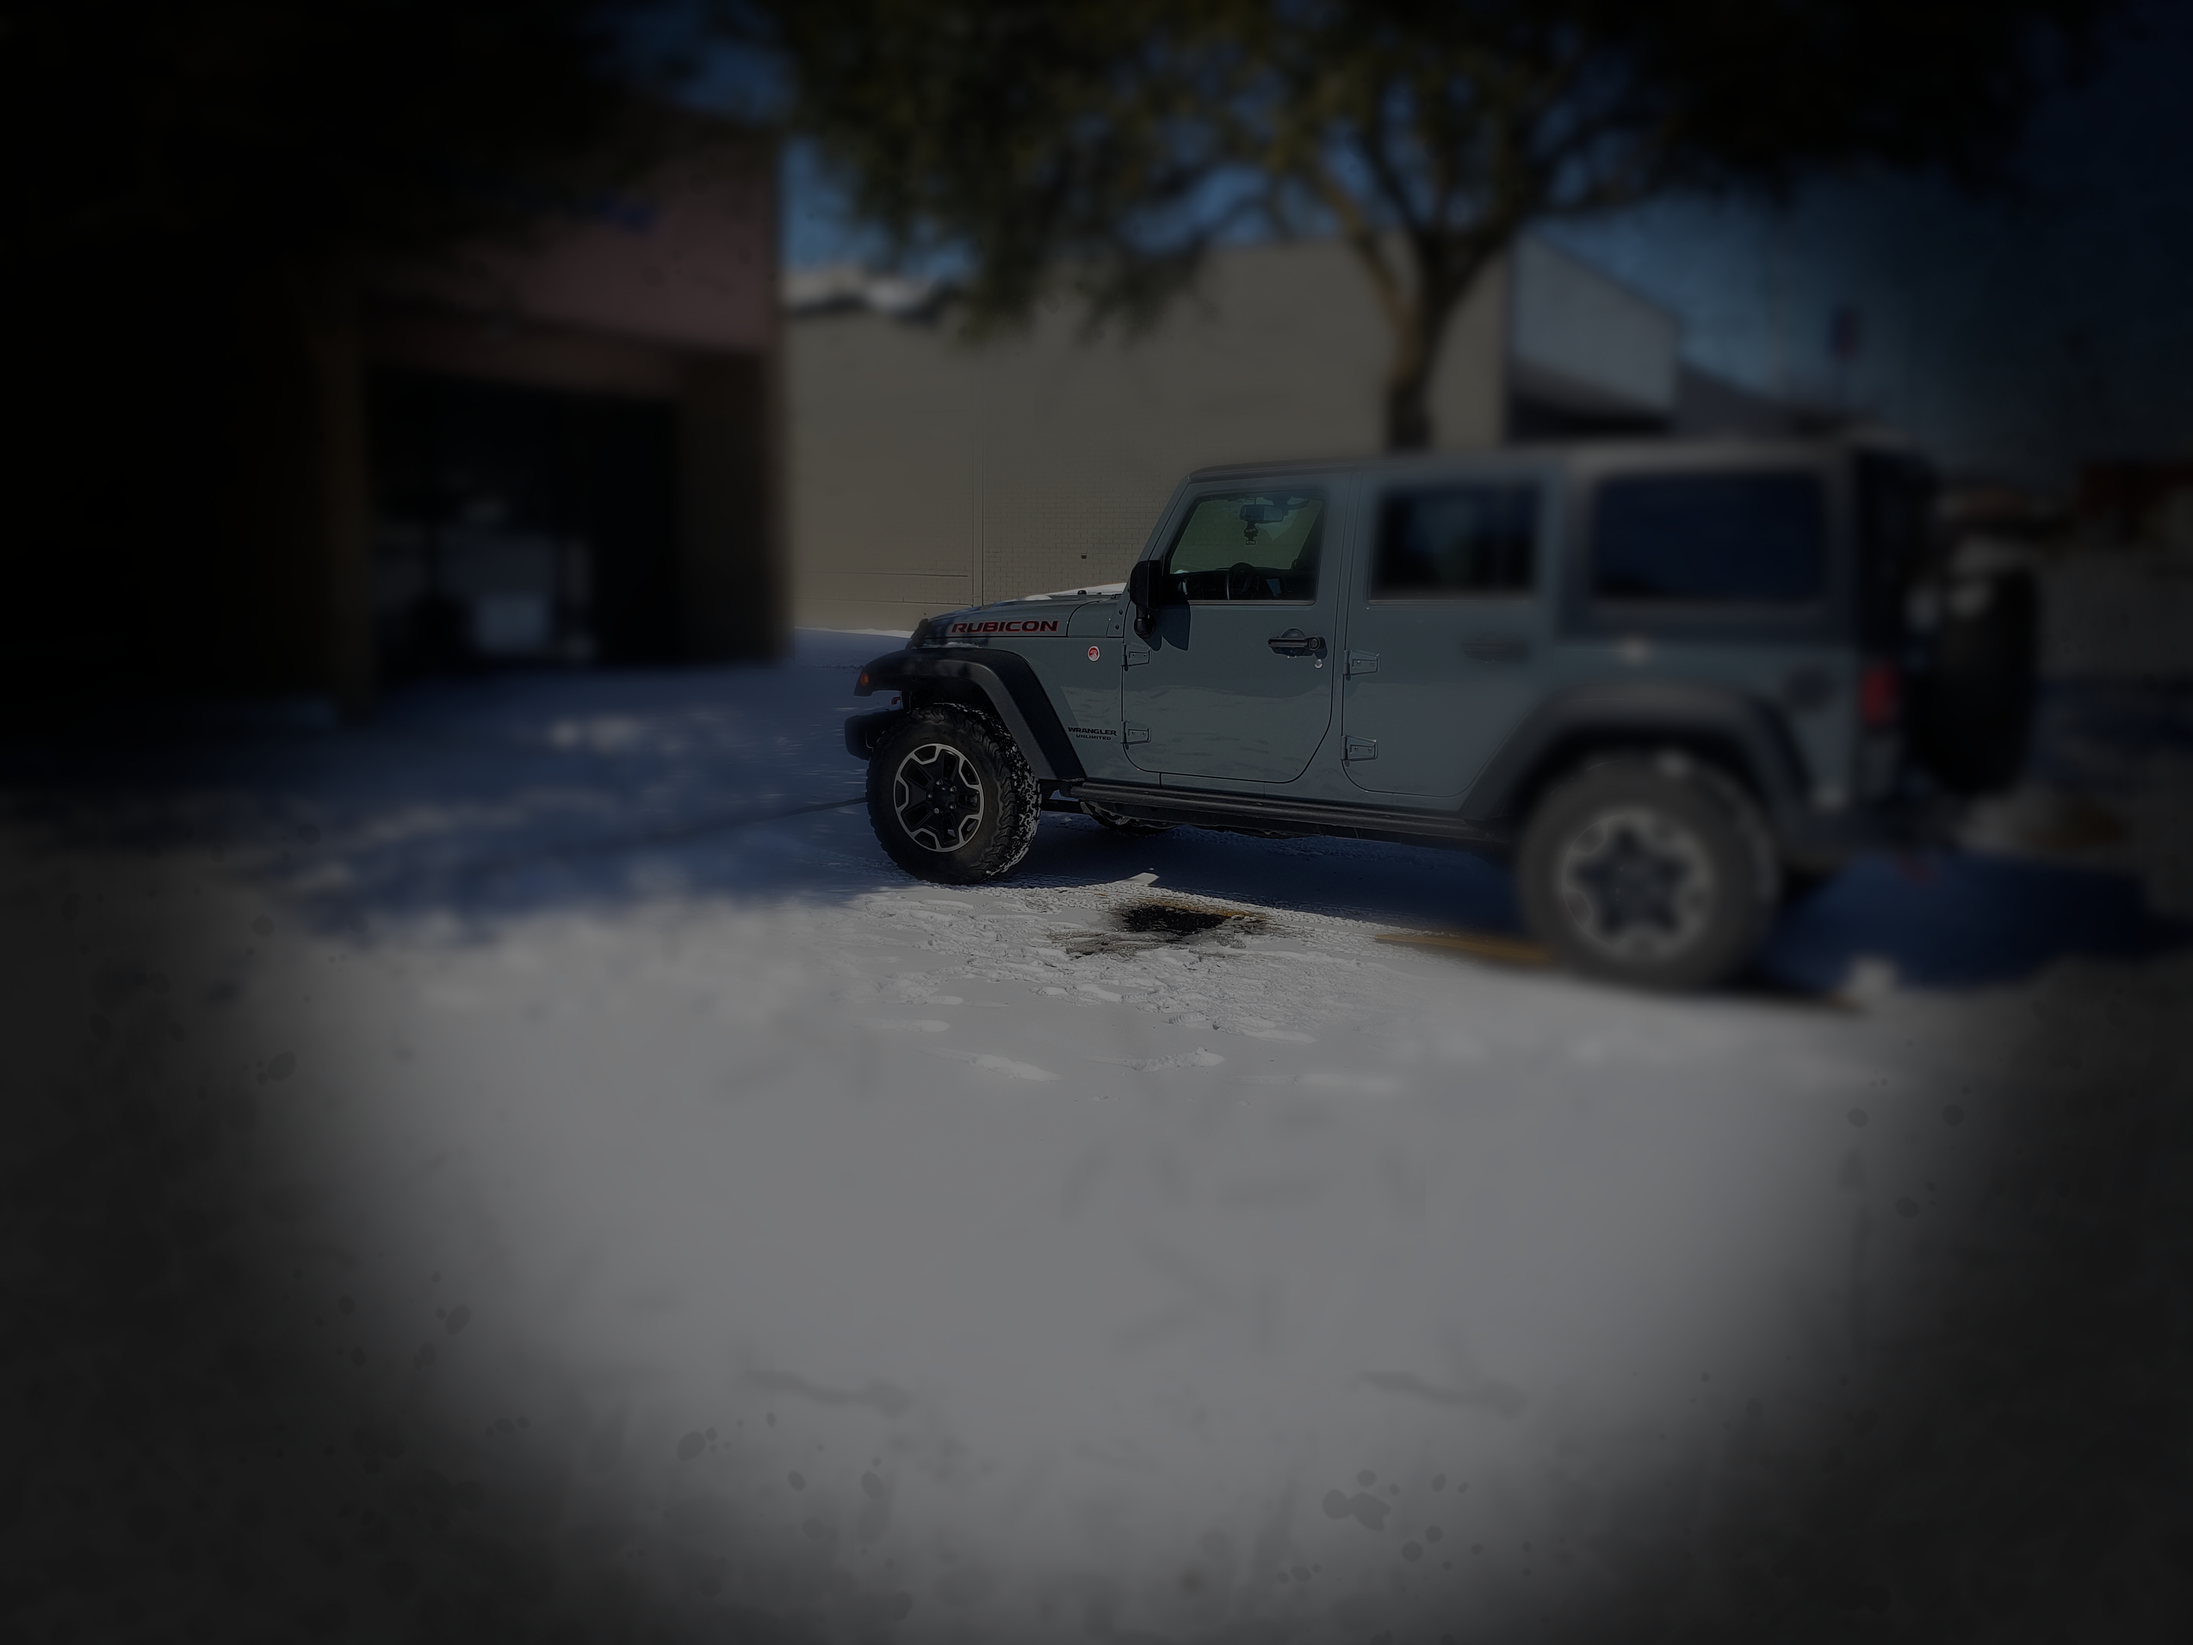
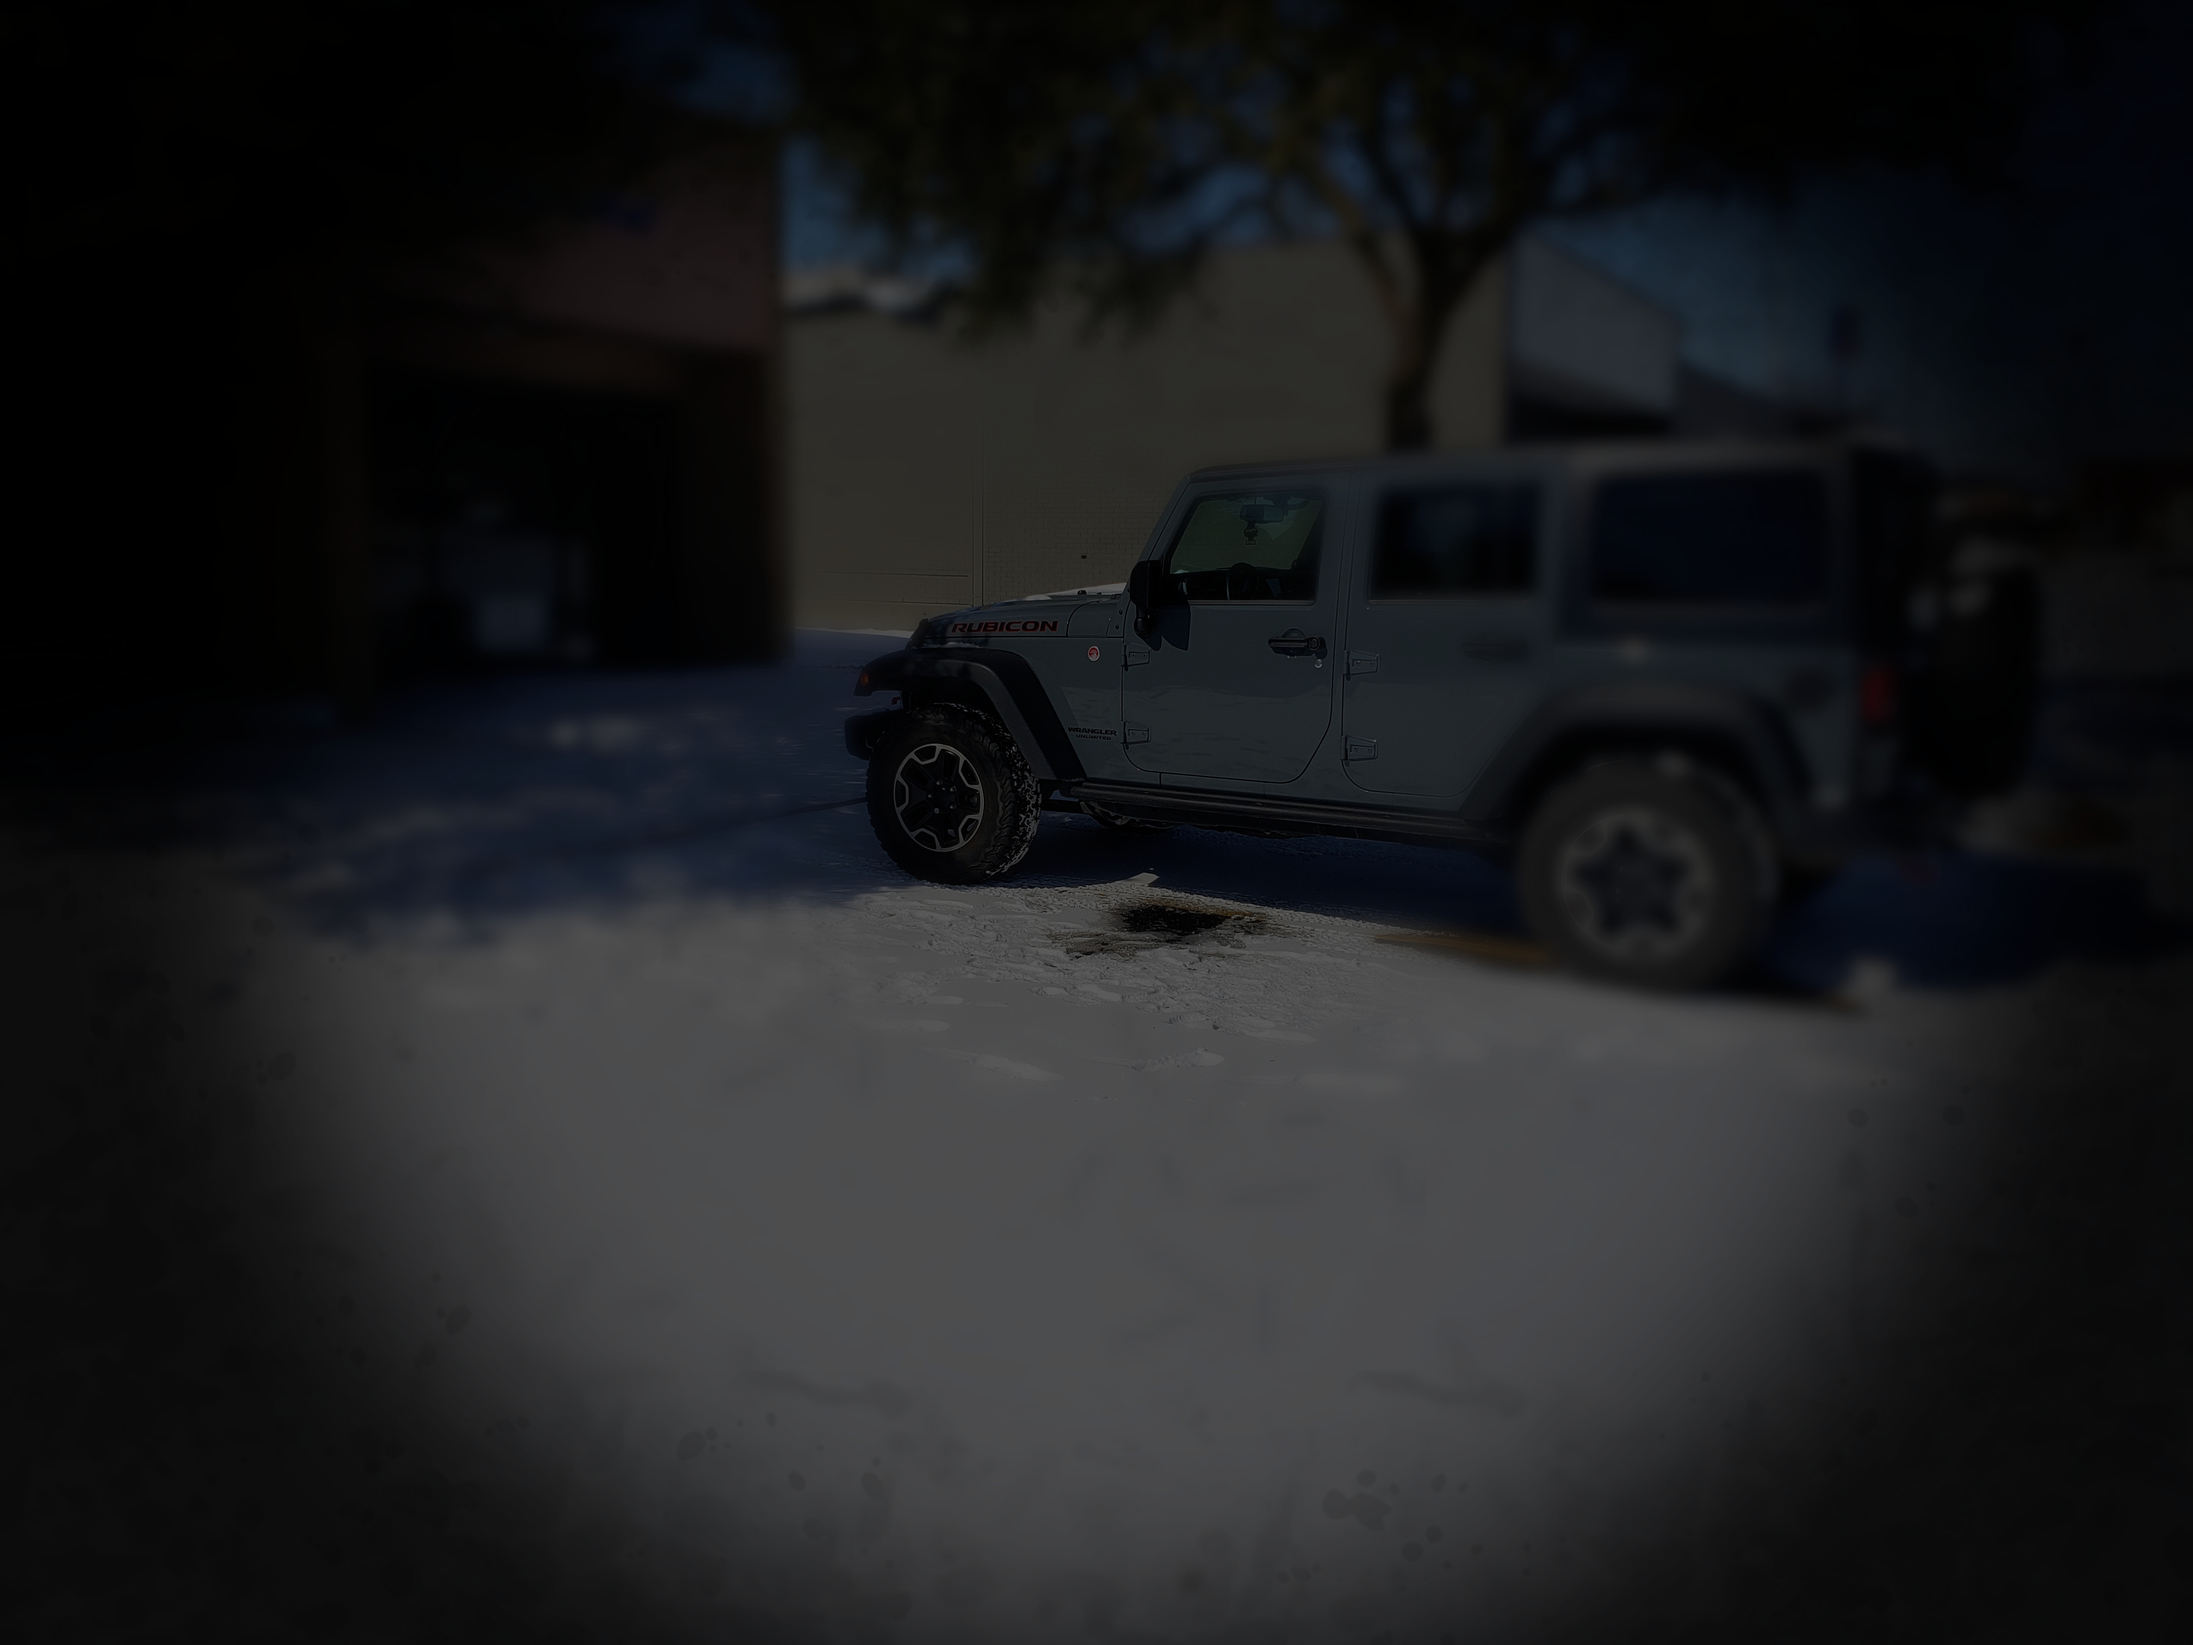
updated font colors, adjusted margins

diff --git a/index.html b/index.html
@@ -42,7 +42,7 @@
             <div class="hero-blurb">
                 <h2>> whoami</h2>
                 <p>
-                    But I must explain to you how all this mistaken idea of denouncing pleasure and praising pain was born and I will give you a complete account of the system, and expound the actual teachings of the great explorer of the truth, the master-builder of human happiness. No one rejects, dislikes, or avoids pleasure itself, because it is pleasure, but because those who do not know how to pursue pleasure rationally encounter consequences that are extremely painful. Nor again is there anyone who loves or pursues or desires to obtain pain of itself, because it is pain, but because occasionally circumstances occur in which toil and pain can procure him some great pleasure. To take a trivial example, which of us ever undertakes laborious physical exercise, except to obtain some advantage from it? But who has any right to find fault with a man who chooses to enjoy a pleasure that has no annoying consequences, or one who avoids a pain that produces no resultant pleasure?
+                    But I must explain to you how all this mistaken idea of denouncing pleasure and praising pain was born and I will give you a complete account of the system, and expound the actual teachings of the great explorer of the truth, the master-builder of human happiness. No one rejects, dislikes, or avoids pleasure itself, because it is pleasure, but because those who do not know how to pursue pleasure rationally encounter consequences that are extremely painful. Nor again is there anyone who loves or pursues or desires to obtain pain of itself, because it is pain, but because occasionally circumstances occur in which toil and pain can procure him some great pleasure. To take a trivial example, which of us ever undertakes laborious physical exercise, except to obtain some advantage from it?
                 </p>
             </div>
             <div class="hero-sm">

diff --git a/assets/css/style.css b/assets/css/style.css
@@ -1,11 +1,11 @@
-/* Import Google Fonts */
+/* Import Google Fonts aebee2*/
 @import url('https://fonts.googleapis.com/css2?family=Play&display=swap');
 @import url('https://fonts.googleapis.com/css2?family=Play&family=Source+Code+Pro:wght@200&display=swap');
 
 :root {
-    --primary-color: #9db3e2;
-    --secondary-color: #426172;
-    --tertiary-color: #212d42;
+    --primary-color: #4c6877;
+    --secondary-color: #aebee2;
+    --tertiary-color: #151e2e;
     --background-img-url: url("../images/hero-bg.jpg");
     --shadow-style: 0 0 10px rgba(0, 0, 0, 0.5);
     --headline-style: 'Play', sans-serif;
@@ -19,7 +19,7 @@
 }
 
 body {
-    color: var(--tertiary-color);
+    color: var(--secondary-color);
     font-family: var(--text-style);
 }
 
@@ -100,13 +100,13 @@ header nav ul li a:hover {
 .hero-blurb {
     width: 45%;
     text-align: right;
-    margin-top: 5%;
+    margin-top: 3%;
     padding: 20px 80px 20px 20px;
     color: #fff;
     font-size: 18px;
     line-height: 1.2;
     flex: 0;
-    background-color: rgba(0, 0, 0, 0.2);
+    background-color: rgba(0, 0, 0, 0.5);
     border-radius: 15px 0 0 15px;
 }
 
@@ -119,8 +119,10 @@ header nav ul li a:hover {
 }
 
 .hero-blurb p {
-    margin-top: 5%;
+    margin-top: 3%;
+    font-size: 20px;
     font-family: var(--headline-style);
+    color: var(--secondary-color);
 }
 
 .hero-sm {
@@ -128,7 +130,7 @@ header nav ul li a:hover {
     padding: 10px 80px 10px 15px;
     width: 50px;
     flex: 0;
-    background-color: rgba(0, 0, 0, 0.3);
+    background-color: rgba(0, 0, 0, 0.5);
     border-radius: 15px 0 0 15px;
 }
 
